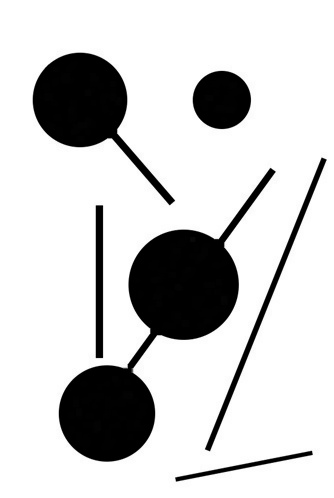
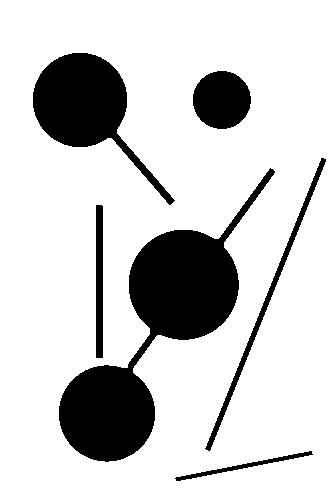
change lab3 code

diff --git a/lab3/lab3_1.py b/lab3/lab3_1.py
@@ -7,6 +7,7 @@ path = r".\pictures\tzLab3\2-1.jpg"
 img = cv2.imread(path,flags=cv2.IMREAD_COLOR)
 
 img = cv2.cvtColor(img, cv2.COLOR_BGR2GRAY)
+ret, img = cv2.threshold(img,100, 255, cv2.THRESH_BINARY)
 
 openWindow = cv2.namedWindow("openWindow",flags=cv2.WINDOW_AUTOSIZE )
 closeWindow = cv2.namedWindow("closeWindow",flags=cv2.WINDOW_AUTOSIZE )
@@ -20,14 +21,14 @@ def closing(img, sizex, sizey, iterations):
     workimg = cv2.erode(workimg,kernel,iterations=iterations)
     return cv2.bitwise_not(workimg)
 
-def oppening(img, sizex, sizey, iterations):
+def opening(img, sizex, sizey, iterations):
     kernel = np.ones((sizex, sizey), np.uint8)
     workimg = cv2.bitwise_not(img)
     workimg = cv2.erode(workimg,kernel,iterations=iterations)
     workimg = cv2.dilate(workimg,kernel, iterations=iterations)
     return cv2.bitwise_not(workimg)
     
-openImg = oppening(img, 5, 5, 1)
+openImg = opening(img, 3, 3, 1)
 closeImg = closing(img, 5, 5, 1)
 
 cv2.imwrite('result_opening.jpg', openImg)

diff --git a/lab3/lab3_2.py b/lab3/lab3_2.py
@@ -13,4 +13,5 @@ openImg = cv2.morphologyEx(img_inverted, cv2.MORPH_OPEN, np.ones((2, 2), np.uint
 
 openImg = cv2.bitwise_not(openImg)
 cv2.imshow("openWindow", openImg)
+cv2.imwrite("lab3/morph"+str(id(img))+".jpg",openImg)
 cv2.waitKey(0)
